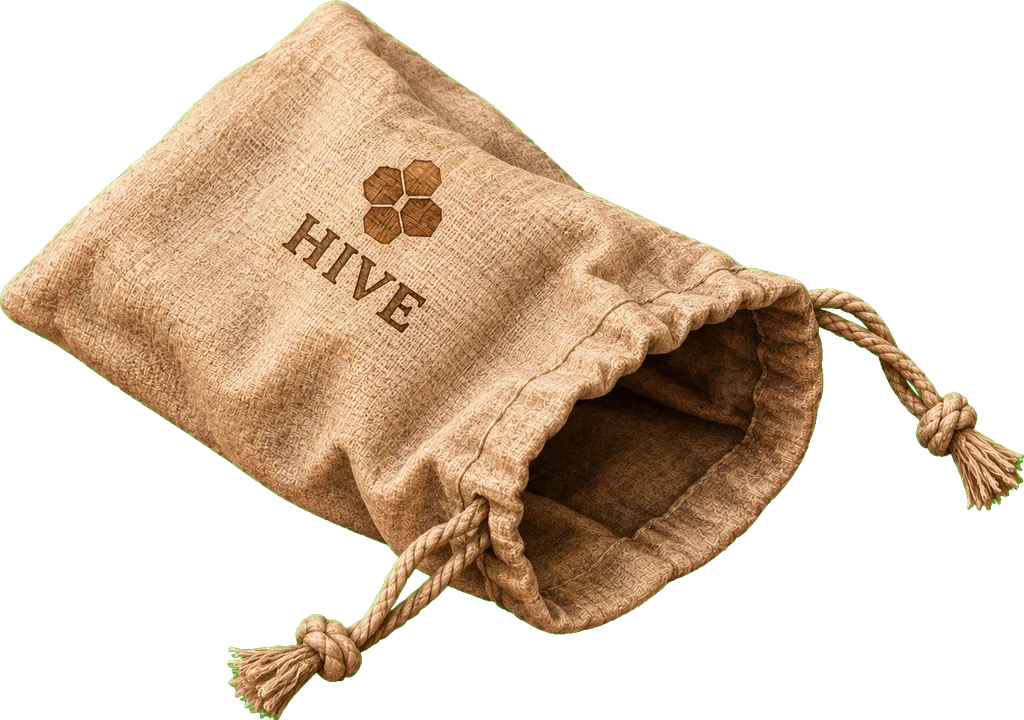
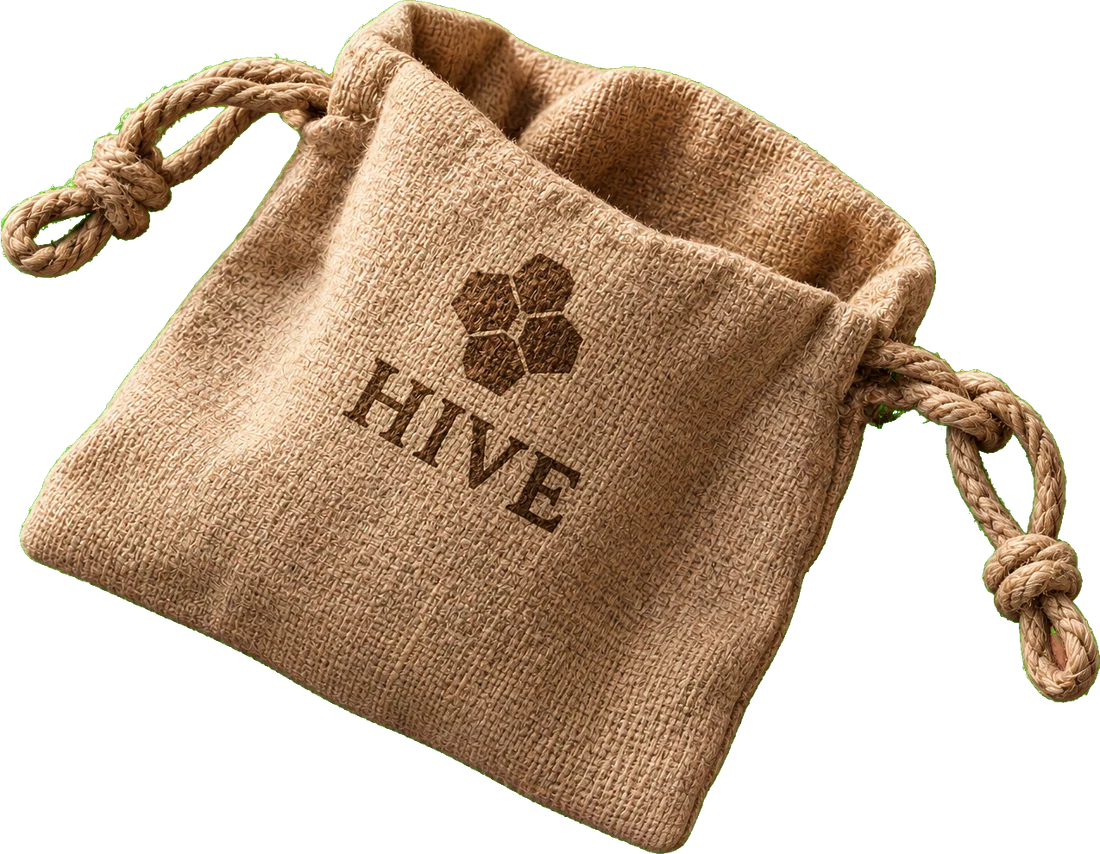
Hive: new big bag and 8-slot tray in the 3D world, table fades into the forest floor with plants over its edge

diff --git a/js/games/hive3d.js b/js/games/hive3d.js
@@ -131,9 +131,9 @@ export async function createHive3D(host, handlers = {}) {
   scene.add(floor);
   scene.fog = new THREE.FogExp2(0x14180f, 0.012);
 
-  const SK = portrait ? 0.9 : 1;                         // phones are narrow: a smaller table keeps its edge and the props in view
-  const stumpW = 12.4 * SK, stumpH = stumpW * 1024 / 1536;
-  const stumpMat = new THREE.MeshStandardMaterial({ map: stumpT, bumpMap: stumpT, bumpScale: 2.2, roughness: 0.82, alphaMap: radialAlpha(.9), transparent: true, color: 0xdccab4 });
+  const SK = 1;
+  const stumpW = 15.5, stumpH = stumpW * 1024 / 1536;
+  const stumpMat = new THREE.MeshStandardMaterial({ map: stumpT, bumpMap: stumpT, bumpScale: 2.2, roughness: 0.82, alphaMap: radialAlpha(.62), transparent: true, color: 0xdccab4 });
   // The cell lattice is analytic (no texture), so the grooves stay razor sharp at any zoom and always line up with the pieces.
   stumpMat.onBeforeCompile = (sh) => {
     sh.vertexShader = sh.vertexShader
@@ -159,7 +159,7 @@ export async function createHive3D(host, handlers = {}) {
         float gw = max(0.017, fwidth(e) * 1.7);
         float groove = 1.0 - smoothstep(0.0, gw, e);
         float pocket = smoothstep(0.0, 0.085, e);
-        float groveFade = 1.0 - smoothstep(0.36, 0.5, length((vMapUv - 0.5) * vec2(1.0, 0.95)));
+        float groveFade = 1.0 - smoothstep(0.30, 0.46, length((vMapUv - 0.5) * vec2(1.0, 0.92)));
         groveH = (-2.1 * groove - 0.5 * (1.0 - pocket)) * groveFade;
         diffuseColor.rgb *= 1.0 - (0.6 * groove + 0.15 * (1.0 - pocket)) * groveFade;`)
       .replace('#include <normal_fragment_maps>', `#include <normal_fragment_maps>
@@ -167,7 +167,7 @@ export async function createHive3D(host, handlers = {}) {
   };
   stumpMat.customProgramCacheKey = () => 'hive-stump';
   const stump = new THREE.Mesh(new THREE.PlaneGeometry(stumpW, stumpH), stumpMat);
-  stump.rotation.x = -Math.PI / 2; stump.position.set(0, 0, SQ3 * R * 1.5); stump.receiveShadow = true; // a whole cell down (a lattice step), so the reserve tray sits on the wood
+  stump.rotation.x = -Math.PI / 2; stump.position.set(0, 0, SQ3 * R * 1.5 * 0); stump.receiveShadow = true; // a whole cell down (a lattice step), so the reserve tray sits on the wood
   scene.add(stump);
   scenery.push({ m: floorMat, c: floorMat.color.clone() }, { m: stumpMat, c: stumpMat.color.clone() });
 
@@ -179,25 +179,26 @@ export async function createHive3D(host, handlers = {}) {
   // dressing: cut-outs standing at the camera's tilt so they read like the pictures they came from
   const props = new THREE.Group(); scene.add(props);
   const shadowTex = dropShadowTexture();
-  async function dress(file, x, z, w, { rot = 0, flip = false, tint = 0xb4ab98, tilt = 0 } = {}) {
+  async function dress(file, x, z, w, { rot = 0, flip = false } = {}) {
     const t = await tex(file);
     const aspect = t.image.height / t.image.width;
-    const geo = new THREE.PlaneGeometry(w, w * aspect); geo.translate(0, w * aspect * 0.42, 0);
-    const mat = new THREE.MeshStandardMaterial({ map: t, transparent: true, alphaTest: 0.22, roughness: 1, side: THREE.DoubleSide, color: tint });
+    const geo = new THREE.PlaneGeometry(w, w * aspect); geo.translate(0, w * aspect / 2, 0);
+    const mat = new THREE.MeshStandardMaterial({ map: t, transparent: true, alphaTest: 0.08, roughness: 0.9, side: THREE.DoubleSide, color: 0xe6dfd2 });
     const m = new THREE.Mesh(geo, mat);
-    m.rotation.order = 'YXZ'; m.rotation.x = -(portrait ? 58 : 53) * Math.PI / 180 + tilt; m.rotation.z = rot; m.rotation.y = flip ? Math.PI : 0;
-    m.position.set(x, 0.02, z);
-    m.castShadow = true;                                   // the same low light throws a long, soft shadow from each plant
+    m.rotation.order = 'YXZ'; m.rotation.x = -(portrait ? 58 : 53) * Math.PI / 180; m.rotation.z = rot;
+    if (flip) m.scale.x = -1;
+    m.position.set(x, 0, z);
     props.add(m);
     scenery.push({ m: mat, c: mat.color.clone() });
-    const sh = new THREE.Mesh(new THREE.PlaneGeometry(w * 1.0, w * 0.5), new THREE.MeshBasicMaterial({ map: shadowTex, transparent: true, depthWrite: false, opacity: 0.95 }));
-    sh.rotation.x = -Math.PI / 2; sh.position.set(x, 0.006, z + 0.02); props.add(sh); // dark contact patch where it meets the ground
+    const sh = new THREE.Mesh(new THREE.PlaneGeometry(w * 1.15, w * 0.55), new THREE.MeshBasicMaterial({ map: shadowTex, transparent: true, depthWrite: false, opacity: 0.85 }));
+    sh.rotation.x = -Math.PI / 2; sh.position.set(x + w * 0.2, 0.004, z - w * 0.02 + 0.05); props.add(sh); // falls away from the low light on the left
   }
   const dressing = Promise.all([
-    dress('fol-fern1.webp', -4.6 * SK, 0.5 * SK, 2.1), dress('fol-fern2.webp', 4.7 * SK, 1.9 * SK, 1.8, { flip: true }),
-    dress('prop-stone1.webp', 4.4 * SK, -2.5 * SK, 1.05, { tint: 0xa8a090 }), dress('prop-mushrooms.webp', -4.2 * SK, -2.8 * SK, 0.85),
-    dress('fol-moss.webp', -3.0 * SK, -3.4 * SK, 1.15, { tint: 0x9c9680 }), dress('prop-acorns.webp', 2.8 * SK, -3.5 * SK, 0.55),
-    dress('fol-fern2.webp', -4.7 * SK, 3.0 * SK, 1.5),
+    dress('fol-fern1.webp', -5.3, 0.1, 2.5), dress('fol-fern2.webp', 5.0, 2.5, 2.1, { flip: true }),
+    dress('fol-moss.webp', -3.4, -3.0, 1.35), dress('prop-stone1.webp', 4.8, -2.3, 1.3), dress('prop-stone2.webp', 4.0, -3.2, 0.8),
+    dress('prop-mushrooms.webp', -4.8, -2.8, 1.05), dress('prop-pinecone.webp', 4.2, 1.1, 0.78), dress('prop-acorns.webp', 3.0, -3.8, 0.68),
+    dress('fol-leaves.webp', 5.3, 0.3, 1.4), dress('fol-ivy.webp', -2.2, -3.8, 1.25), dress('prop-twig.webp', 1.8, -3.9, 1.05, { rot: -0.4 }),
+    dress('fol-clover.webp', -4.5, -1.2, 0.9), dress('fol-fern2.webp', -5.4, 3.2, 1.8), dress('fol-leaves.webp', 0.3, -4.3, 1.15),
   ]).catch((e) => console.warn('[hive3d] dressing', e));
 
   // ---------------- stones
@@ -354,12 +355,15 @@ export async function createHive3D(host, handlers = {}) {
   }
 
   // ---------------- the reserve tray and the bag, physical objects standing on the table at the bottom of the view
-  const [trL, trM, trR, bagTex] = await Promise.all([tex('tray-l.webp'), tex('tray-m.webp'), tex('tray-r.webp'), tex('bag.webp')]);
+  const [trL, trM, trR, tr5, tr8, bagTex] = await Promise.all([tex('tray-l.webp'), tex('tray-m.webp'), tex('tray-r.webp'), tex('tray.webp'), tex('tray8.webp'), tex('bag.webp')]);
   const TRAY = { L: 384, M: 280, R: 376, H: 347, C: 244 }; // artwork geometry in px: caps, one well, height, first well centre
   const hud = new THREE.Group(); scene.add(hud);
   const trayTexCache = new Map();
+  // Artwork geometry (px) per slot count: a dedicated 5-slot and 8-slot tray, stitched from the 5-slot art for 6 and 7.
+  const trayGeo = (n) => (n >= 8 ? { W: 1879, H: 300, C: 160, M: 222.4 } : n === 5 ? { W: 1600, H: 347, C: 244, M: 280 } : { W: TRAY.L + TRAY.M * (n - 2) + TRAY.R, H: TRAY.H, C: TRAY.C, M: TRAY.M });
   function trayTexture(n) {
     if (trayTexCache.has(n)) return trayTexCache.get(n);
+    if (n >= 8 || n === 5) { const t = n >= 8 ? tr8 : tr5; trayTexCache.set(n, t); return t; }
     const W = TRAY.L + TRAY.M * (n - 2) + TRAY.R, c = document.createElement('canvas'); c.width = W; c.height = TRAY.H;
     const g = c.getContext('2d');
     const piece = (im, x, w) => { // feather the left edge so the joins vanish
@@ -409,16 +413,16 @@ export async function createHive3D(host, handlers = {}) {
     hud.visible = items.length > 0;
     if (!items.length) return;
     stage.camera.updateMatrixWorld();
-    const n = Math.max(2, items.length);
-    const px = TRAY.L + TRAY.M * (n - 2) + TRAY.R;
-    if (!groundAt(-0.94, -0.8, hA) || !groundAt(0.94, -0.8, hB)) return;
-    const span = Math.abs(hB.x - hA.x), pitch = Math.min(0.92, span / (px / TRAY.M)), pw = pitch / TRAY.M;
-    const wW = px * pw, hW = TRAY.H * pw, cx = (hA.x + hB.x) / 2, cz = hA.z;
+    const n = Math.max(2, Math.min(8, items.length)), G = trayGeo(n);
+    const px = G.W;
+    if (!groundAt(-0.94, -0.84, hA) || !groundAt(0.94, -0.84, hB)) return;
+    const span = Math.abs(hB.x - hA.x), pitch = Math.min(0.92, span / (px / G.M)), pw = pitch / G.M;
+    const wW = px * pw, hW = G.H * pw, cx = (hA.x + hB.x) / 2, cz = hA.z;
     if (trayN !== n) { trayMat.map = trayTexture(n); trayMat.needsUpdate = true; trayN = n; }
     trayMesh.position.set(cx, 0.03, cz); trayMesh.scale.set(wW, hW, 1);
     const sc = pitch * 0.84, x0 = cx - wW / 2, zRow = cz - hH(hW);
     items.forEach((it, i) => {
-      const wx = x0 + (TRAY.C + TRAY.M * i) * pw;
+      const wx = x0 + (G.C + G.M * i) * pw;
       trayWell.set(it.type, Object.assign(new THREE.Vector3(wx, 0.03, zRow), { s: sc }));
       const show = Math.min(it.count, 3);
       for (let k = 0; k < 3; k++) {
@@ -436,21 +440,22 @@ export async function createHive3D(host, handlers = {}) {
       b.visible = it.count > 0; b.scale.setScalar(pitch * 0.34); b.position.set(wx + pitch * 0.34, 0.03 + (show * LV + 0.1) * sc, zRow + pitch * 0.3);
     });
     for (const [key, m] of trayStones) if (!items.some((it) => key.startsWith(it.type + ':'))) m.visible = false;
-    // the bag, lower left, with the next stones spilled beside it
-    if (groundAt(-0.8, -0.56, hA)) {
-      const bw = Math.min(1.9, span * 0.2);
+    // the bag: big, bottom left, mouth open towards the top right, the next stones sitting in and spilling from its mouth
+    if (groundAt(-0.5, -0.52, hA)) {
+      const bw = Math.min(3.8, span * 0.5);
       bagMesh.scale.set(bw, bw, 1); bagMesh.position.set(hA.x, 0.0, hA.z);
-      bagShadow.scale.set(bw, bw, 1); bagShadow.position.set(hA.x + bw * 0.18, 0.004, hA.z + 0.04);
-      const next = items.filter((it) => it.count > 0).slice(-2);
+      bagShadow.scale.set(bw * 1.15, bw * 0.9, 1); bagShadow.position.set(hA.x + bw * 0.1, 0.004, hA.z + 0.05);
+      const next = items.filter((it) => it.count > 0).slice(-3);
+      const mouth = { x: hA.x + bw * 0.34, z: hA.z - bw * 0.22 };
       next.forEach((it, i) => {
         const m = trayStone(`bag:${it.type}:${reserve.color}`, it.type, reserve.color, 80 + i);
-        m.visible = true; m.userData.reserve = null; m.scale.setScalar(bw * 0.3);
-        m.position.set(hA.x + bw * (0.38 + i * 0.26), 0.03 + BEV * bw * 0.3, hA.z + bw * (0.1 + i * 0.06));
-        m.rotation.y = 0.5 - i * 1.1;
+        m.visible = true; m.userData.reserve = null; m.scale.setScalar(bw * 0.15);
+        m.position.set(mouth.x + bw * (0.14 + i * 0.13), 0.03 + (BEV + (i ? 0 : LV)) * bw * 0.15, mouth.z + bw * (0.04 - i * 0.09));
+        m.rotation.y = 0.5 - i * 0.9; m.rotation.z = i === 0 ? 0.35 : 0; m.rotation.x = i === 0 ? -0.2 : 0;
       });
       for (const [key, m] of trayStones) if (key.startsWith('bag:') && !next.some((it) => key === `bag:${it.type}:${reserve.color}`)) m.visible = false;
       const total = items.reduce((a, it) => a + it.count, 0);
-      const b = badgeSprite('bag', String(total)); b.visible = true; b.scale.setScalar(bw * 0.2); b.position.set(hA.x - bw * 0.38, 0.28 * bw, hA.z + bw * 0.12);
+      const b = badgeSprite('bag', String(total)); b.visible = true; b.scale.setScalar(bw * 0.15); b.position.set(hA.x - bw * 0.3, 0.3 * bw, hA.z + bw * 0.16);
     }
   }
   const hH = (h) => h * 0.04; // the wells sit slightly above the tray's middle
